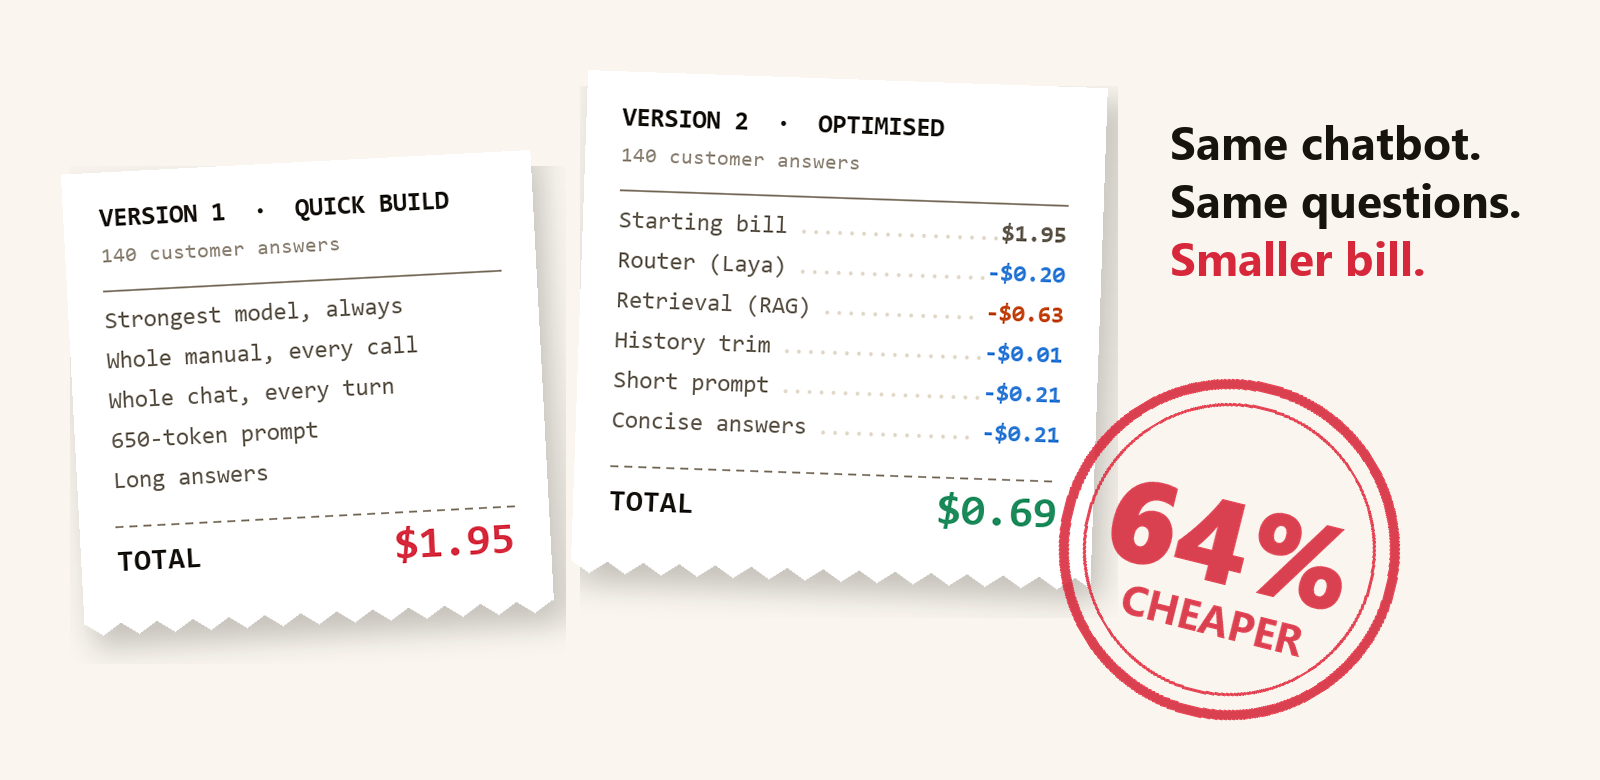
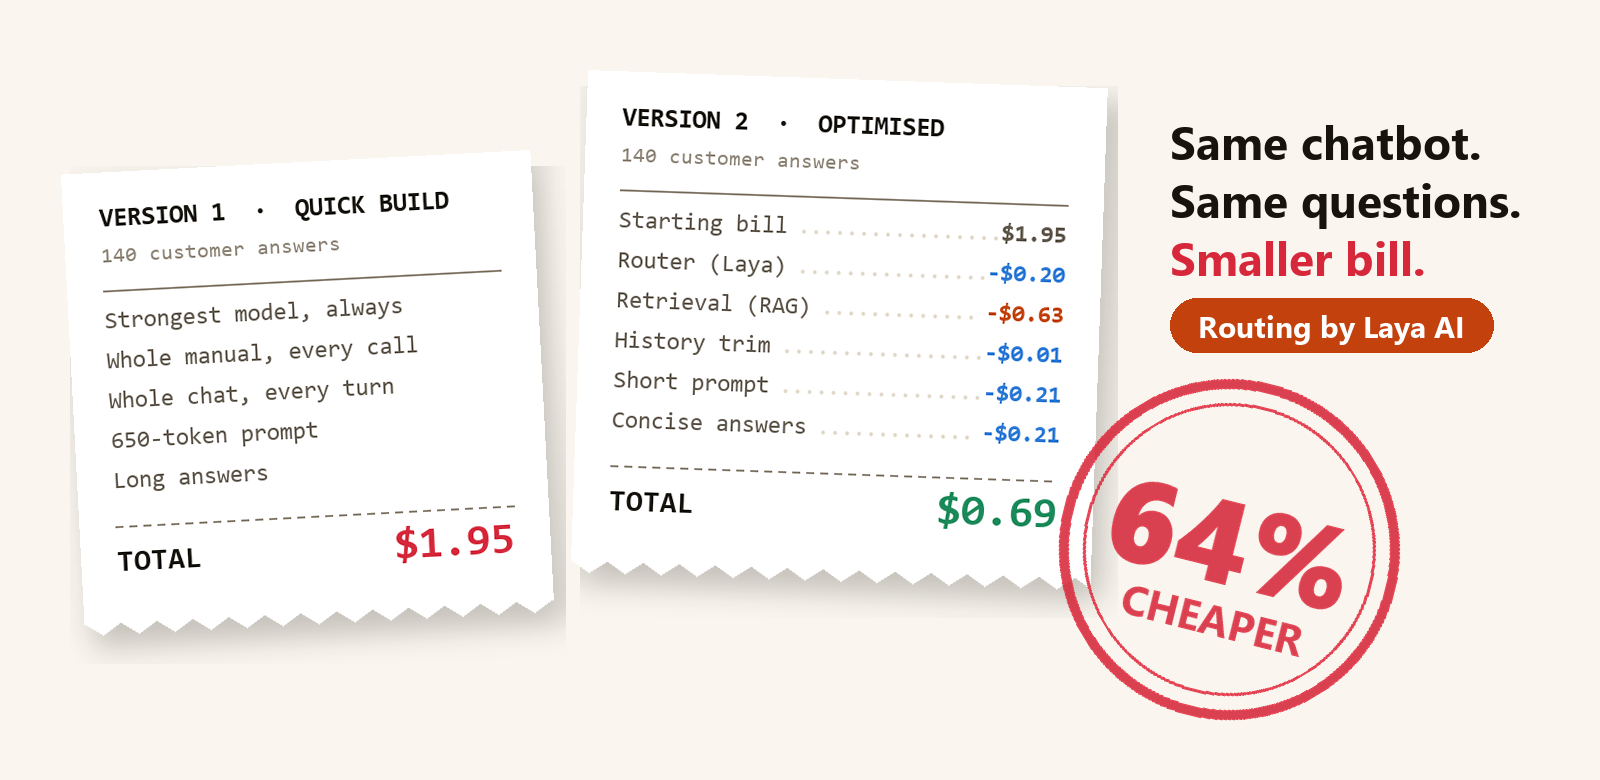
Add a Routing by Laya AI badge to the hero image

Changed region(s): [[0.7188, 0.3692, 0.9375, 0.4615]]

diff --git a/blog/site/index.html b/blog/site/index.html
@@ -130,7 +130,7 @@
     <div class="byline"><span>Leafy, a fictional plant shop</span><span>Claude Sonnet 5.5 · Haiku 4.5 · Laya</span>
       <span>October 2026</span><span>open code &amp; data</span></div>
   </header>
-  <div class="hero"><img src="hero.png" width="1600" height="780" alt="Two receipts for the same 140 answers: version 1 totals $1.95; version 2 itemises the savings from routing, retrieval, history trimming, a short prompt and concise answers, totalling $0.69, under a stamp reading 64% cheaper."></div>
+  <div class="hero"><img src="hero.png" width="1600" height="780" alt="Two receipts for the same 140 answers: version 1 totals $1.95; version 2 itemises the savings from routing, retrieval, history trimming, a short prompt and concise answers, totalling $0.69, under a stamp reading 64% cheaper, with a badge reading Routing by Laya AI."></div>
   <section class="col" style="margin-top:30px"><div class="approach"><span class="lbl">How this works, in one minute</span><p><strong>The app.</strong> A customer-support chatbot for Leafy, a made-up online plant shop. A customer asks something like "What's your return window?" and the bot answers from Leafy's policy manual, a document of about 3,600 tokens in 9 sections. It runs on Claude models; all data is invented.</p><p><strong>Two versions.</strong> Version 1 is built the quick way: every question goes to the strongest, most expensive model (Sonnet 5.5), with the whole manual and the whole chat attached. Version 2 adds six cost-saving fixes, one at a time.</p><p><strong>The test.</strong> Both versions answer the same 100 customer questions (62 simple, 38 complex) and 10 back-and-forth conversations: 140 answers each.</p><p><strong>Counting tokens and cost.</strong> AI models bill per token (about three-quarters of a word), for text sent and text written back. For every answer I recorded the token counts reported by the model provider, not estimates, and multiplied them by the published prices: Sonnet 5.5 costs $2 per million tokens sent and $10 per million written; the cheaper Haiku 4.5 costs $1 and $5.</p><p><strong>Checking quality.</strong> A separate AI grader scored every answer from 1 to 5 against a reference answer written from the manual: 5 means send it as is, 3 means acceptable but flawed.</p></div></section>
   <section class="col"></section>
   <div class="col"><div class="thesis"><div class="big">64%</div><div class="say"><b>Cheaper, for the same 140 answers.</b>

diff --git a/blog/build_site.py b/blog/build_site.py
@@ -266,7 +266,7 @@ def main():
     <div class="byline"><span>Leafy, a fictional plant shop</span><span>Claude Sonnet 5.5 · Haiku 4.5 · Laya</span>
       <span>{date.today():%B %Y}</span><span>open code &amp; data</span></div>
   </header>
-  <div class="hero"><img src="hero.png" width="1600" height="780" alt="Two receipts for the same 140 answers: version 1 totals ${v1:.2f}; version 2 itemises the savings from routing, retrieval, history trimming, a short prompt and concise answers, totalling ${v2:.2f}, under a stamp reading {pct(1 - v2 / v1)} cheaper."></div>
+  <div class="hero"><img src="hero.png" width="1600" height="780" alt="Two receipts for the same 140 answers: version 1 totals ${v1:.2f}; version 2 itemises the savings from routing, retrieval, history trimming, a short prompt and concise answers, totalling ${v2:.2f}, under a stamp reading {pct(1 - v2 / v1)} cheaper, with a badge reading Routing by Laya AI."></div>
   {approach_html}
   <section class="col">{"".join(render(p) for p in intro_paras[1:])}</section>
   <div class="col"><div class="thesis"><div class="big">{pct(1 - v2 / v1)}</div><div class="say"><b>Cheaper, for the same {n} answers.</b>

diff --git a/blog/make_hero.py b/blog/make_hero.py
@@ -94,6 +94,10 @@ def main():
     g.text((1170, 110), "Same chatbot.", font=BOLD(46), fill=INK)
     g.text((1170, 168), "Same questions.", font=BOLD(46), fill=INK)
     g.text((1170, 226), "Smaller bill.", font=BOLD(46), fill=RED)
+    pill, pf = "Routing by Laya AI", BOLD(30)
+    pw = g.textlength(pill, font=pf) + 56
+    g.rounded_rectangle([1170, 298, 1170 + pw, 352], radius=27, fill=FLAG)
+    g.text((1198, 305), pill, font=pf, fill="white")
     out = ROOT / "blog" / "site"
     out.mkdir(parents=True, exist_ok=True)
     base.convert("RGB").save(out / "hero.png", optimize=True)

diff --git a/qa/reports/qa_checkpoint_3.md b/qa/reports/qa_checkpoint_3.md
@@ -1,4 +1,4 @@
-# QA gate 3 (blog) - 2026-10-04 17:23
+# QA gate 3 (blog) - 2026-10-04 17:26
 
 6/6 checks passed.
 
